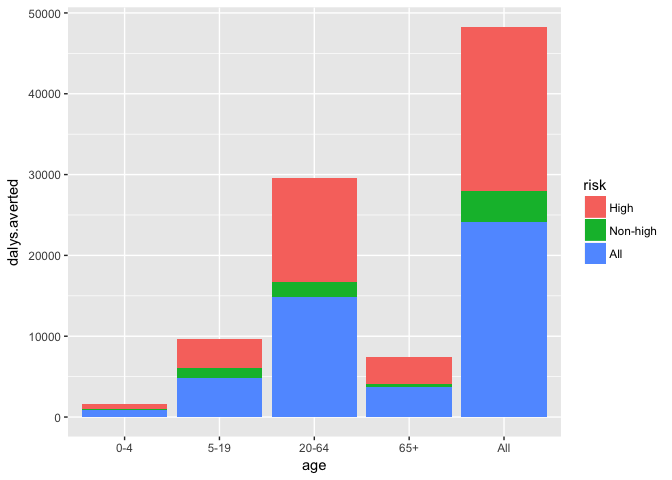
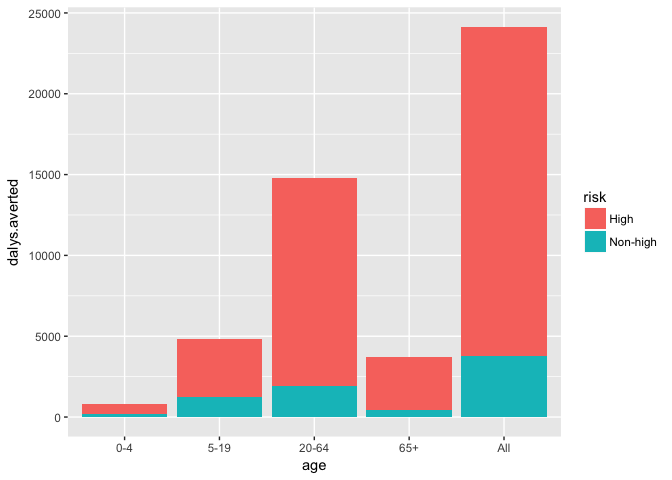
update

diff --git a/figs/draft-figs.html b/figs/draft-figs.html
@@ -129,26 +129,27 @@ library(tidyr)</code></pre>
 df$age &lt;- factor(df$age, levels = c(&quot;0-4&quot;, &quot;5-19&quot;, &quot;20-64&quot;, &quot;65+&quot;, &quot;All&quot;))
 df$risk &lt;- factor(df$risk, levels = c(&quot;High&quot;, &quot;Non-high&quot;, &quot;All&quot;))
 
-age_group_df &lt;- df[1:12,]</code></pre>
+age_group_df &lt;- df[1:12,]
+risk_group_df &lt;- df[(df$risk!=&quot;All&quot;),]</code></pre>
 <pre class="r"><code># cases, deaths, dalys
-ggplot(df, aes(x = age, y = cases, fill = risk)) + geom_bar(stat = &quot;identity&quot;, position = &quot;stack&quot;)</code></pre>
+ggplot(risk_group_df, aes(x = age, y = cases, fill = risk)) + geom_bar(stat = &quot;identity&quot;, position = &quot;stack&quot;)</code></pre>
 <p><img src="draft-figs_files/figure-html/unnamed-chunk-3-1.png" /><!-- --></p>
-<pre class="r"><code>ggplot(df, aes(x = age, y = deaths, fill = risk)) + geom_bar(stat = &quot;identity&quot;, position = &quot;stack&quot;)</code></pre>
+<pre class="r"><code>ggplot(risk_group_df, aes(x = age, y = deaths, fill = risk)) + geom_bar(stat = &quot;identity&quot;, position = &quot;stack&quot;)</code></pre>
 <p><img src="draft-figs_files/figure-html/unnamed-chunk-3-2.png" /><!-- --></p>
-<pre class="r"><code>ggplot(df, aes(x = age, y = dalys, fill = risk)) + geom_bar(stat = &quot;identity&quot;, position = &quot;stack&quot;)</code></pre>
+<pre class="r"><code>ggplot(risk_group_df, aes(x = age, y = dalys, fill = risk)) + geom_bar(stat = &quot;identity&quot;, position = &quot;stack&quot;)</code></pre>
 <p><img src="draft-figs_files/figure-html/unnamed-chunk-3-3.png" /><!-- --></p>
 <pre class="r"><code># per 100K
-ggplot(df, aes(x = age, y = dalys.rate, fill = risk)) + geom_bar(stat = &quot;identity&quot;, position = &quot;stack&quot;)</code></pre>
+ggplot(df, aes(x = age, y = dalys.rate, fill = risk)) + geom_bar(stat = &quot;identity&quot;, position = &quot;dodge&quot;)</code></pre>
 <p><img src="draft-figs_files/figure-html/unnamed-chunk-3-4.png" /><!-- --></p>
 <pre class="r"><code># averted cases, deaths, dalys
-ggplot(df, aes(x = age, y = cases.averted, fill = risk)) + geom_bar(stat = &quot;identity&quot;, position = &quot;stack&quot;)</code></pre>
+ggplot(risk_group_df, aes(x = age, y = cases.averted, fill = risk)) + geom_bar(stat = &quot;identity&quot;, position = &quot;stack&quot;)</code></pre>
 <p><img src="draft-figs_files/figure-html/unnamed-chunk-4-1.png" /><!-- --></p>
-<pre class="r"><code>ggplot(df, aes(x = age, y = deaths.averted, fill = risk)) + geom_bar(stat = &quot;identity&quot;, position = &quot;stack&quot;)</code></pre>
+<pre class="r"><code>ggplot(risk_group_df, aes(x = age, y = deaths.averted, fill = risk)) + geom_bar(stat = &quot;identity&quot;, position = &quot;stack&quot;)</code></pre>
 <p><img src="draft-figs_files/figure-html/unnamed-chunk-4-2.png" /><!-- --></p>
-<pre class="r"><code>ggplot(df, aes(x = age, y = dalys.averted, fill = risk)) + geom_bar(stat = &quot;identity&quot;, position = &quot;stack&quot;)</code></pre>
+<pre class="r"><code>ggplot(risk_group_df, aes(x = age, y = dalys.averted, fill = risk)) + geom_bar(stat = &quot;identity&quot;, position = &quot;stack&quot;)</code></pre>
 <p><img src="draft-figs_files/figure-html/unnamed-chunk-4-3.png" /><!-- --></p>
 <pre class="r"><code># per 100K
-ggplot(df, aes(x = age, y = dalys.averted.rate, fill = risk)) + geom_bar(stat = &quot;identity&quot;, position = &quot;stack&quot;)</code></pre>
+ggplot(df, aes(x = age, y = dalys.averted.rate, fill = risk)) + geom_bar(stat = &quot;identity&quot;, position = &quot;dodge&quot;)</code></pre>
 <p><img src="draft-figs_files/figure-html/unnamed-chunk-4-4.png" /><!-- --></p>
 <pre class="r"><code># ICERs
 ggplot(df, aes(x = age, y = icer.case.averted, fill = risk)) + geom_bar(stat = &quot;identity&quot;, position = &quot;dodge&quot;)</code></pre>
@@ -166,12 +167,9 @@ ggplot(df, aes(x = age, y = icer.case.averted, color = risk, group = risk)) + ge
 <p><img src="draft-figs_files/figure-html/unnamed-chunk-5-6.png" /><!-- --></p>
 <pre class="r"><code># violin plot
 
-# dalys averted per 100K by age
-ggplot(df, aes(x = age, y = dalys.averted.rate, fill = risk)) + geom_bar(stat = &quot;identity&quot;, position = &quot;dodge&quot;)</code></pre>
-<p><img src="draft-figs_files/figure-html/unnamed-chunk-6-1.png" /><!-- --></p>
-<pre class="r"><code># scatter plot: dalys averted per 100K by cost difference
+# scatter plot: dalys averted per 100K by cost difference
 ggplot(df, aes(x = cost.diff, y = dalys.averted.rate, shape = risk, color = age)) + geom_point()</code></pre>
-<p><img src="draft-figs_files/figure-html/unnamed-chunk-6-2.png" /><!-- --></p>
+<p><img src="draft-figs_files/figure-html/unnamed-chunk-6-1.png" /><!-- --></p>
 
 
 

diff --git a/figs/draft-figs.md b/figs/draft-figs.md
@@ -24,31 +24,32 @@ df$age <- factor(df$age, levels = c("0-4", "5-19", "20-64", "65+", "All"))
 df$risk <- factor(df$risk, levels = c("High", "Non-high", "All"))
 
 age_group_df <- df[1:12,]
+risk_group_df <- df[(df$risk!="All"),]
 ```
 
 
 ```r
 # cases, deaths, dalys
-ggplot(df, aes(x = age, y = cases, fill = risk)) + geom_bar(stat = "identity", position = "stack")
+ggplot(risk_group_df, aes(x = age, y = cases, fill = risk)) + geom_bar(stat = "identity", position = "stack")
 ```
 
 ![](draft-figs_files/figure-html/unnamed-chunk-3-1.png)<!-- -->
 
 ```r
-ggplot(df, aes(x = age, y = deaths, fill = risk)) + geom_bar(stat = "identity", position = "stack")
+ggplot(risk_group_df, aes(x = age, y = deaths, fill = risk)) + geom_bar(stat = "identity", position = "stack")
 ```
 
 ![](draft-figs_files/figure-html/unnamed-chunk-3-2.png)<!-- -->
 
 ```r
-ggplot(df, aes(x = age, y = dalys, fill = risk)) + geom_bar(stat = "identity", position = "stack")
+ggplot(risk_group_df, aes(x = age, y = dalys, fill = risk)) + geom_bar(stat = "identity", position = "stack")
 ```
 
 ![](draft-figs_files/figure-html/unnamed-chunk-3-3.png)<!-- -->
 
 ```r
 # per 100K
-ggplot(df, aes(x = age, y = dalys.rate, fill = risk)) + geom_bar(stat = "identity", position = "stack")
+ggplot(df, aes(x = age, y = dalys.rate, fill = risk)) + geom_bar(stat = "identity", position = "dodge")
 ```
 
 ![](draft-figs_files/figure-html/unnamed-chunk-3-4.png)<!-- -->
@@ -56,26 +57,26 @@ ggplot(df, aes(x = age, y = dalys.rate, fill = risk)) + geom_bar(stat = "identit
 
 ```r
 # averted cases, deaths, dalys
-ggplot(df, aes(x = age, y = cases.averted, fill = risk)) + geom_bar(stat = "identity", position = "stack")
+ggplot(risk_group_df, aes(x = age, y = cases.averted, fill = risk)) + geom_bar(stat = "identity", position = "stack")
 ```
 
 ![](draft-figs_files/figure-html/unnamed-chunk-4-1.png)<!-- -->
 
 ```r
-ggplot(df, aes(x = age, y = deaths.averted, fill = risk)) + geom_bar(stat = "identity", position = "stack")
+ggplot(risk_group_df, aes(x = age, y = deaths.averted, fill = risk)) + geom_bar(stat = "identity", position = "stack")
 ```
 
 ![](draft-figs_files/figure-html/unnamed-chunk-4-2.png)<!-- -->
 
 ```r
-ggplot(df, aes(x = age, y = dalys.averted, fill = risk)) + geom_bar(stat = "identity", position = "stack")
+ggplot(risk_group_df, aes(x = age, y = dalys.averted, fill = risk)) + geom_bar(stat = "identity", position = "stack")
 ```
 
 ![](draft-figs_files/figure-html/unnamed-chunk-4-3.png)<!-- -->
 
 ```r
 # per 100K
-ggplot(df, aes(x = age, y = dalys.averted.rate, fill = risk)) + geom_bar(stat = "identity", position = "stack")
+ggplot(df, aes(x = age, y = dalys.averted.rate, fill = risk)) + geom_bar(stat = "identity", position = "dodge")
 ```
 
 ![](draft-figs_files/figure-html/unnamed-chunk-4-4.png)<!-- -->
@@ -123,15 +124,8 @@ ggplot(df, aes(x = age, y = icer.daly.averted, color = risk, group = risk)) + ge
 ```r
 # violin plot
 
-# dalys averted per 100K by age
-ggplot(df, aes(x = age, y = dalys.averted.rate, fill = risk)) + geom_bar(stat = "identity", position = "dodge")
-```
-
-![](draft-figs_files/figure-html/unnamed-chunk-6-1.png)<!-- -->
-
-```r
 # scatter plot: dalys averted per 100K by cost difference
 ggplot(df, aes(x = cost.diff, y = dalys.averted.rate, shape = risk, color = age)) + geom_point()
 ```
 
-![](draft-figs_files/figure-html/unnamed-chunk-6-2.png)<!-- -->
+![](draft-figs_files/figure-html/unnamed-chunk-6-1.png)<!-- -->
